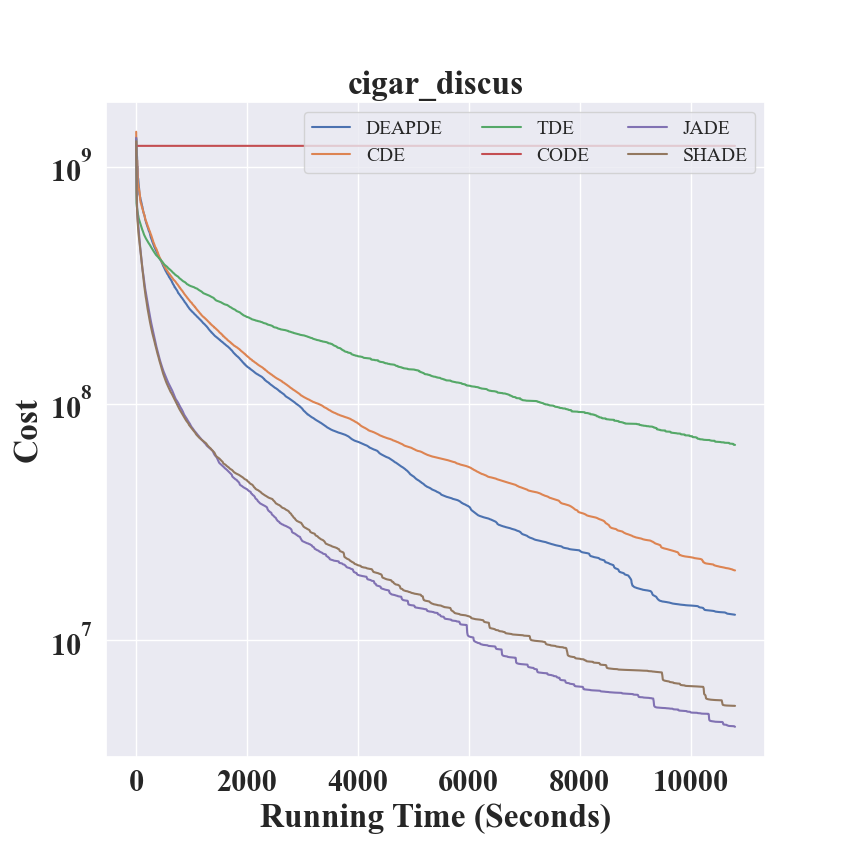
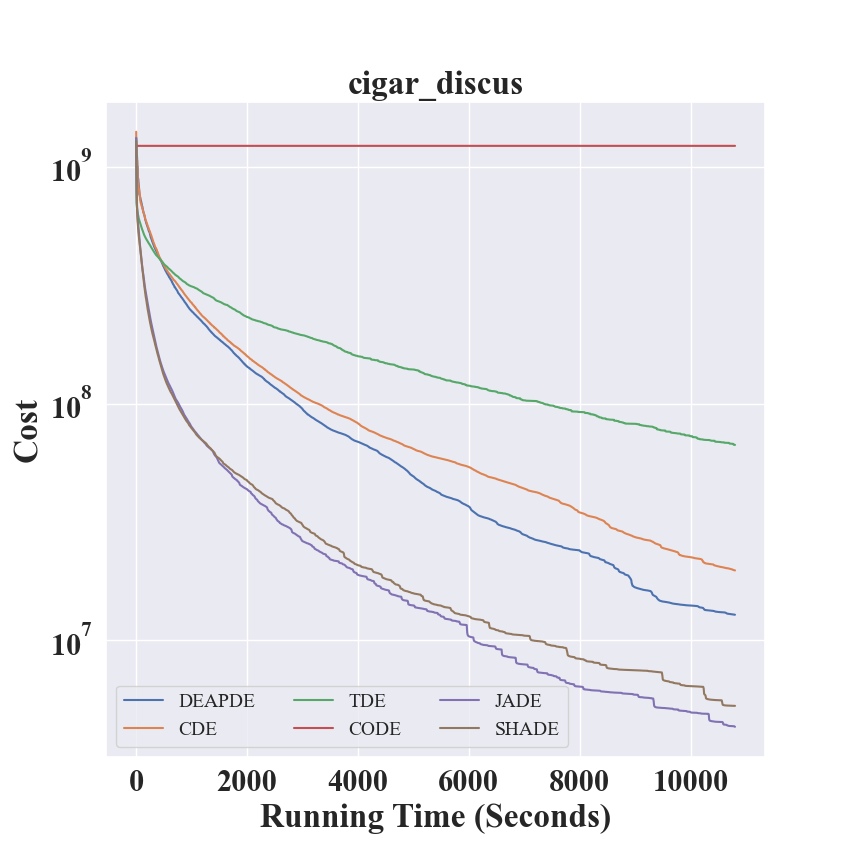
Update docs/pypop7_benchmarks_lso/single-core/compare_efficiency_de.py and docs/pypop7_benchmarks_lso/single-core/mo_compare_efficiency_de.py

diff --git a/docs/pypop7_benchmarks_lso/single-core/compare_efficiency_de.py b/docs/pypop7_benchmarks_lso/single-core/compare_efficiency_de.py
@@ -69,7 +69,7 @@ if __name__ == '__main__':
         plt.title(f, fontsize=24, fontweight='bold')
         plt.xticks(fontsize=22, fontweight='bold')
         plt.yticks(fontsize=22, fontweight='bold')
-        plt.legend(loc='upper right', ncol=3, fontsize=14)
+        plt.legend(loc='best', ncol=3, fontsize=14)
         plt.rcParams['font.family'] = 'Times New Roman'
         plt.savefig('./figures/DEs-' + f + '.png', format='png')
         plt.show()

diff --git a/docs/pypop7_benchmarks_lso/single-core/mo_compare_efficiency_de.py b/docs/pypop7_benchmarks_lso/single-core/mo_compare_efficiency_de.py
@@ -71,7 +71,7 @@ if __name__ == '__main__':
         plt.title(f, fontsize=24, fontweight='bold')
         plt.xticks(fontsize=22, fontweight='bold')
         plt.yticks(fontsize=22, fontweight='bold')
-        plt.legend(loc=4, ncol=3, fontsize=14)
+        plt.legend(loc='best', ncol=3, fontsize=14)
         plt.rcParams['font.family'] = 'Times New Roman'
         plt.savefig('./figures/DEs-' + f + '.png', format='png')
         plt.show()
